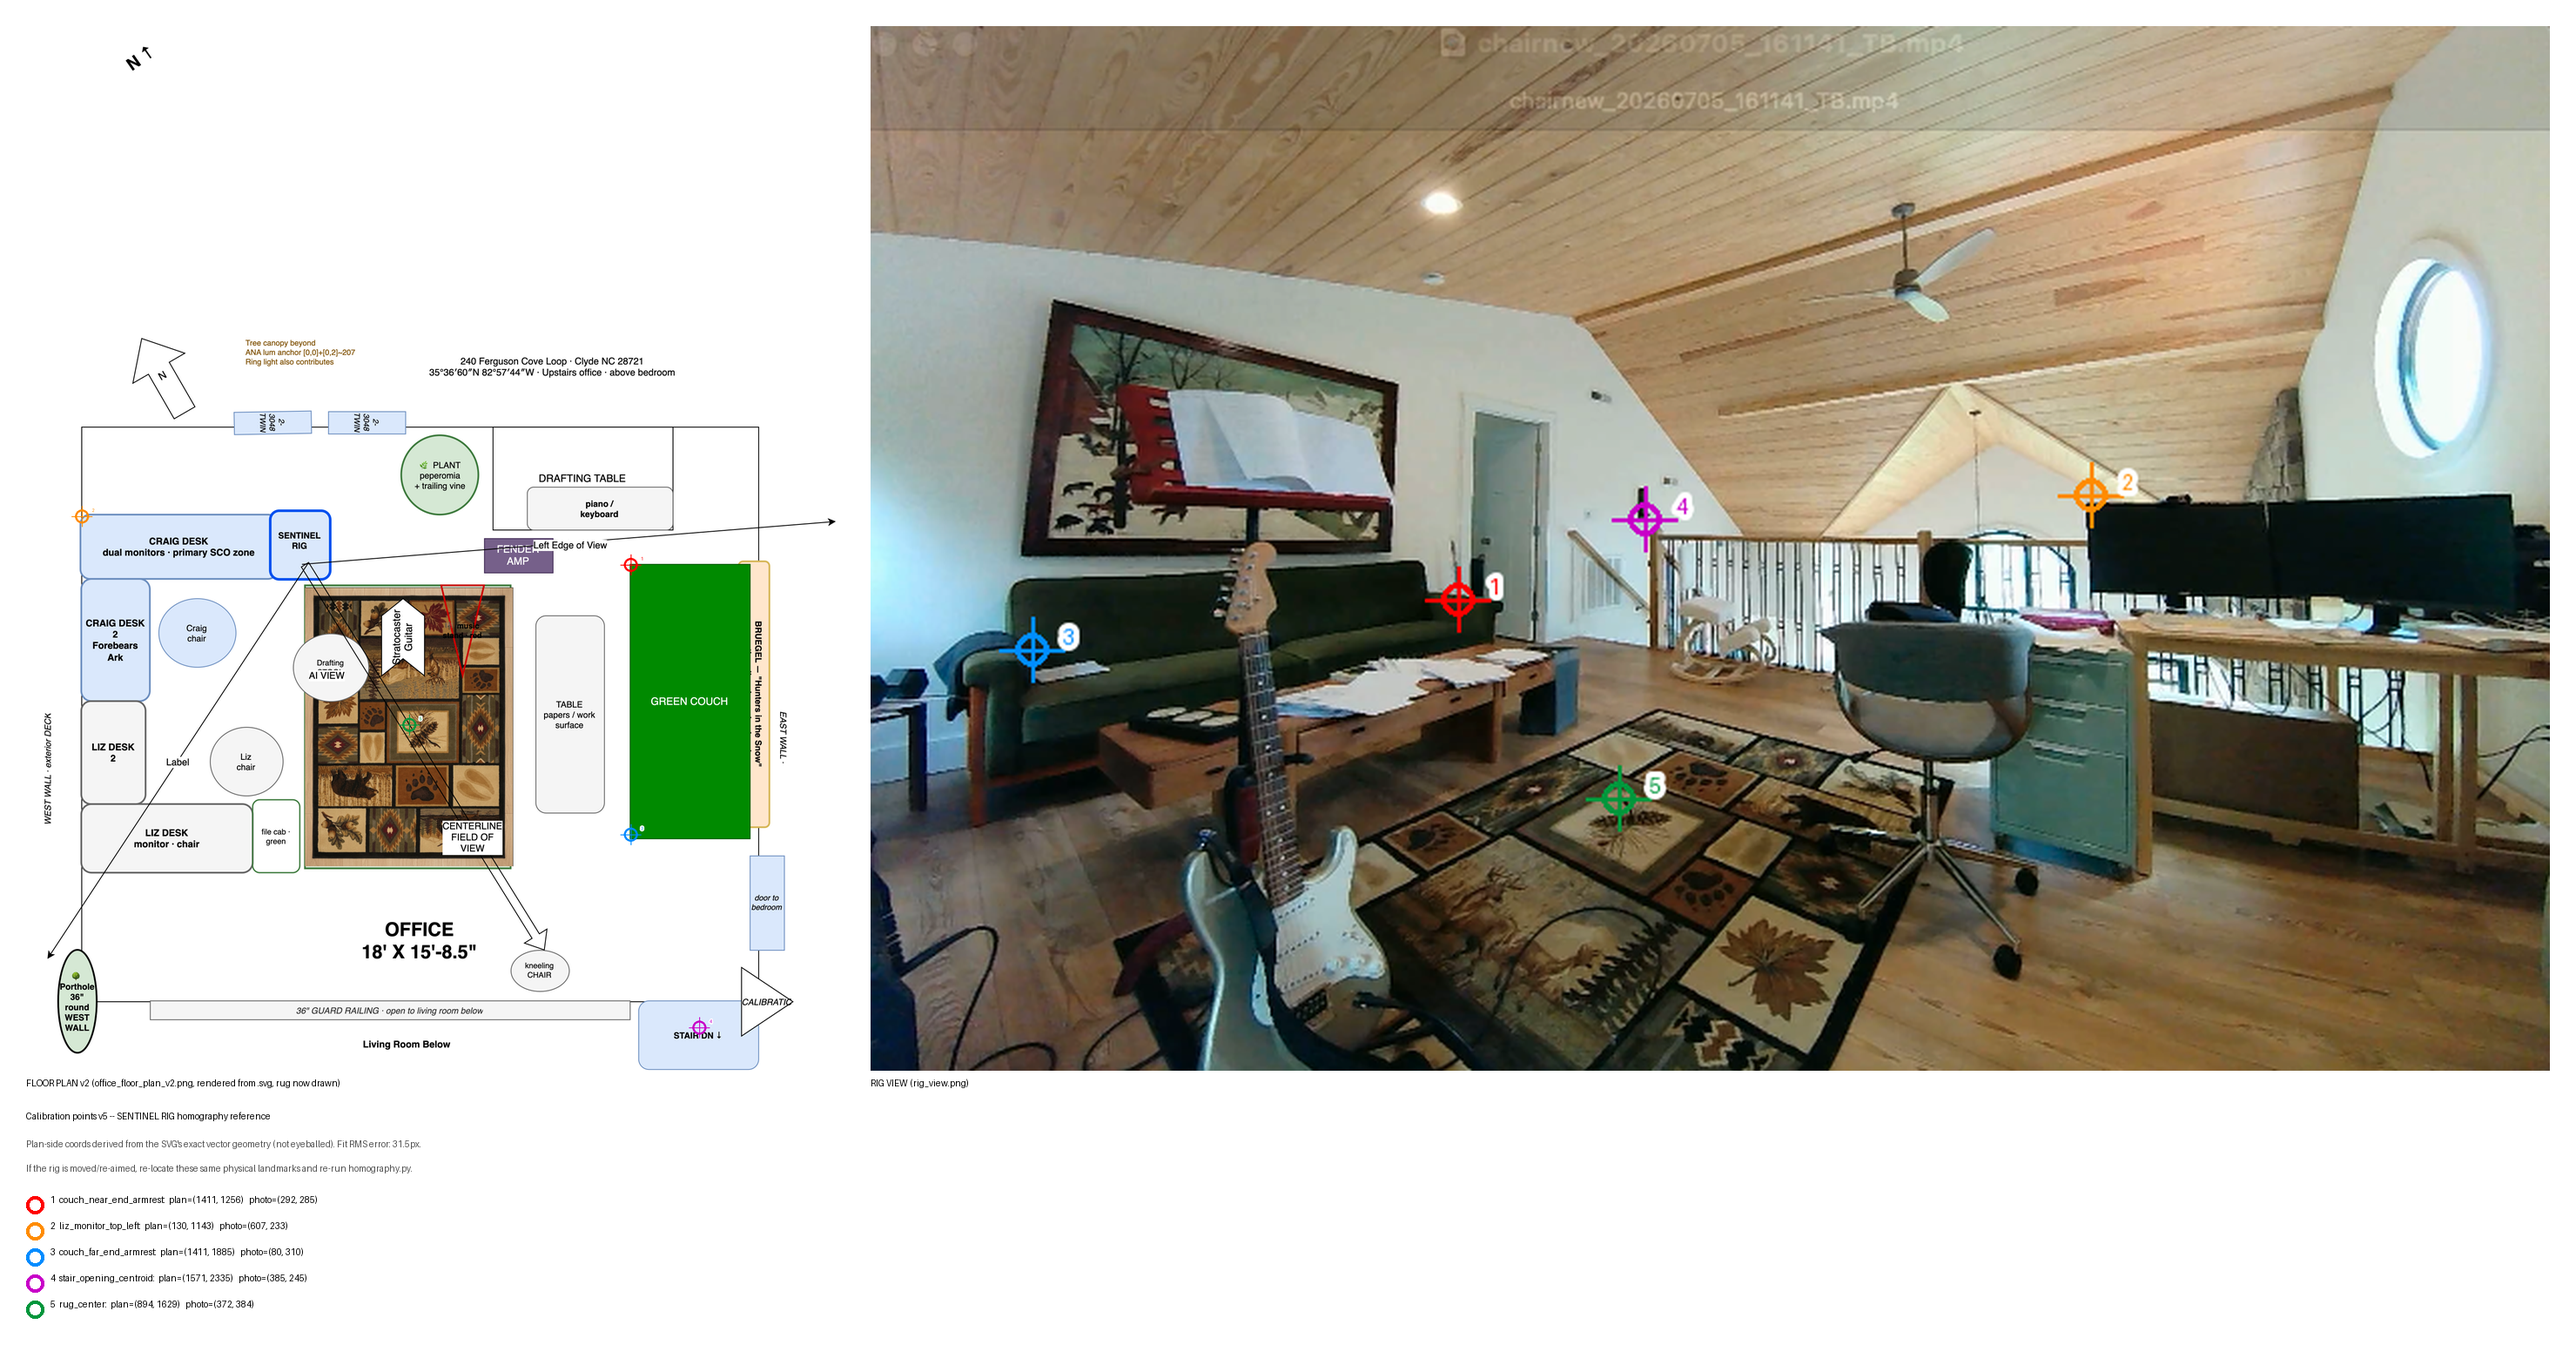
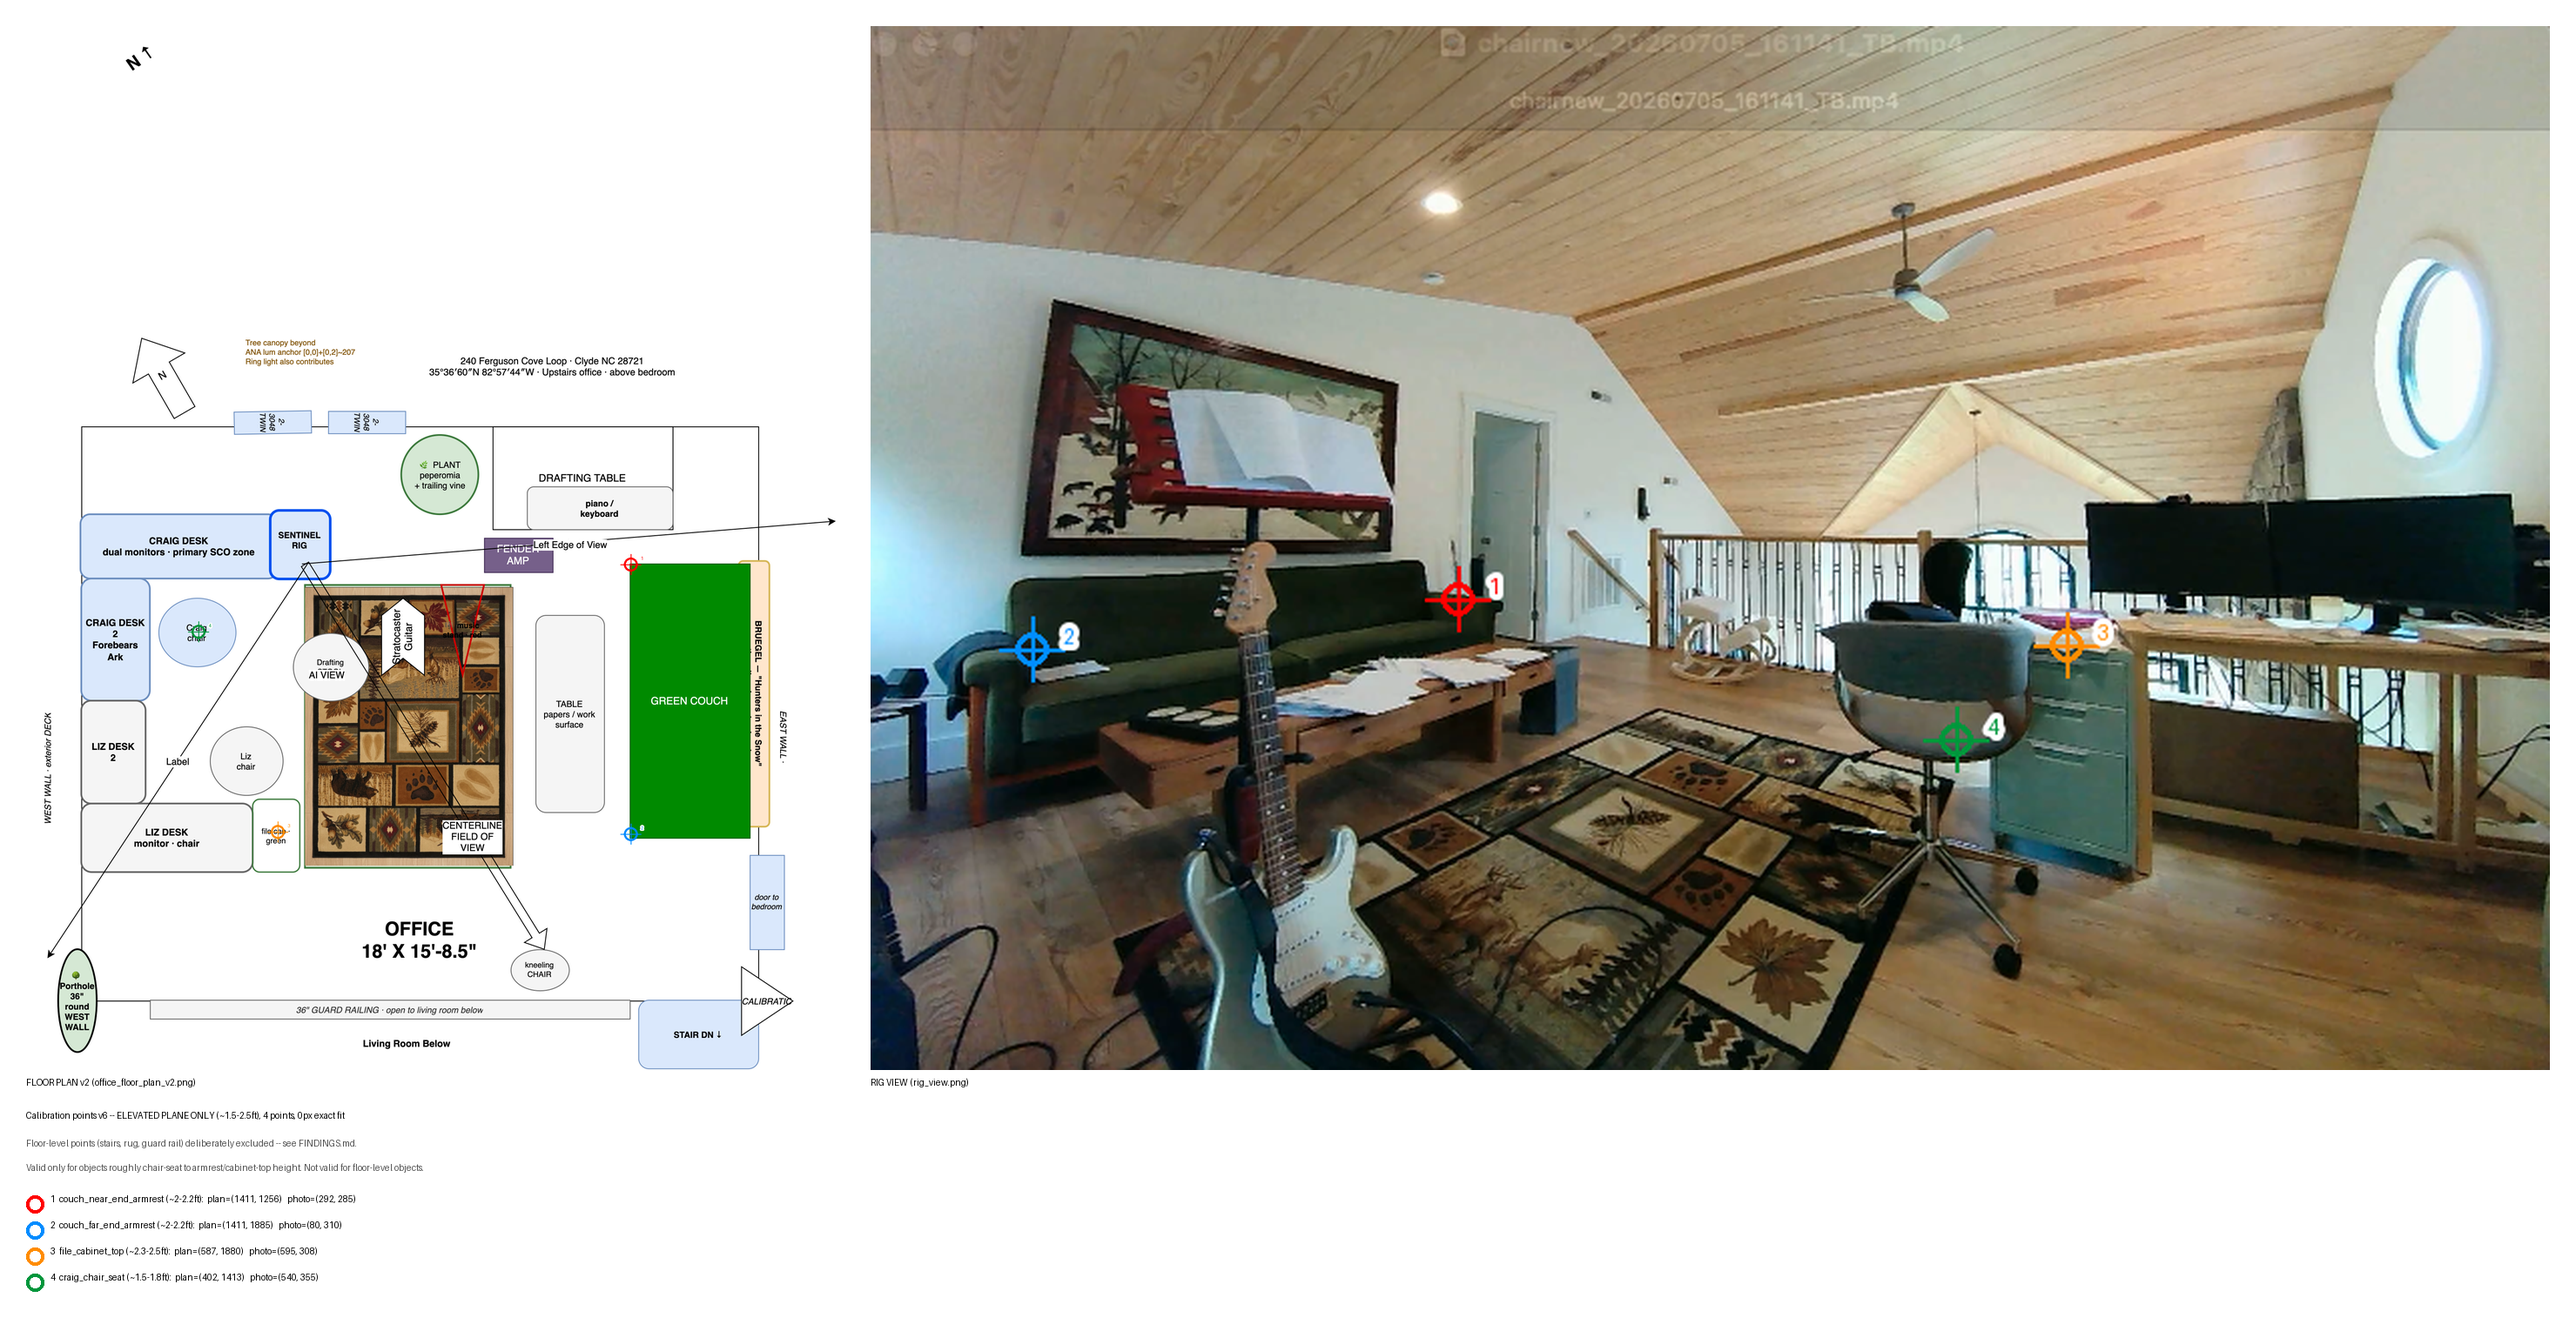
Rebuild homography using elevated-plane reference points only (v6)
Dropped floor-level points (stairwell, rug, guard rail) and the too-high
monitor-top point, keeping only 4 correspondences roughly 1.5-2.5ft above
the floor: couch armrest (both ends), file cabinet top, chair seat.

v6 achieves 0px RMS on its own 4 reference points (expected for a
minimal 4-point fit). Projecting the dropped floor-level points through
this H confirms they don't belong: 4 of 7 test points (kneeling chair,
rug center, both guard rail ends) land completely off-canvas, the rest
are unverified at best. This confirms floor-level and elevated surfaces
need separate homographies, not one shared fit.

A 5th same-band point (coffee table surface, ~1.3ft) was tried as a
consistency check and cost 32px of residual on its own, indicating the
valid height band is narrower than "roughly elevated" -- tightest
results come from points within about 1.5-2.5ft specifically, not the
broader furniture-top range.

Documented in FINDINGS.md as v6, with the previous v3-v5 mixed-height
history kept for context.

diff --git a/calibration/homography.py b/calibration/homography.py
@@ -4,48 +4,61 @@ import numpy as np
 # office_floor_plan_v2.png (plan, rendered from office_floor_plan_v2.svg
 # at 1910x2436) and rig_view.png (photo).
 # Format: name -> (plan_xy, photo_xy)
+# v6: ELEVATED-PLANE calibration. All 4 points sit roughly chair-seat to
+# armrest/cabinet-top height (~1.5-2.5ft above the floor) -- floor-level
+# points (stairwell, rug, guard rail) and the too-high monitor-top point
+# were deliberately dropped. See FINDINGS.md "v6" section for why, and
+# for the valid height band this homography should be trusted within.
+#
+# A 5th candidate point (craig_desk_surface, desk box center) was tried
+# and dropped: it produced a ~719px reprojection outlier while the other
+# 4 points held to <25px. Cause: the CRAIG DESK plan box is wide (230
+# units, spans both monitors) and the floor plan is a schematic/cognitive
+# map, not a precisely-scaled drawing (its own width:height ratios don't
+# match the couch's real 11ft:2.8ft ratio) -- so the box's geometric
+# center doesn't reliably correspond to a specific real-world point the
+# way a small, well-defined object's does.
 correspondences = {
-    "couch_near_end_armrest":  ((1411, 1256), (292, 285)),
-    "liz_monitor_top_left":    ((130, 1143), (607, 233)),
-    "couch_far_end_armrest":   ((1411, 1885), (80, 310)),
-    "stair_opening_centroid":  ((1571, 2335), (385, 245)),
-    "rug_center":              ((894, 1629), (372, 384)),
+    "couch_near_end_armrest": ((1411, 1256), (292, 285)),   # ~2-2.2ft (armrest)
+    "couch_far_end_armrest":  ((1411, 1885), (80, 310)),    # ~2-2.2ft (armrest)
+    "file_cabinet_top":       ((587, 1880), (595, 308)),    # ~2.3-2.5ft (cabinet top)
+    "craig_chair_seat":       ((402, 1413), (540, 355)),    # ~1.5-1.8ft (chair seat)
 }
+# A 5th point (coffee table surface, ~1.3-1.5ft) was tested for
+# consistency and DROPPED: it pushed the RMS residual from 0px (4-pt
+# exact fit) to ~32px, with couch_far_end_armrest alone jumping to 56px
+# error. Even within this restricted "elevated" band, height still
+# matters -- 1.3ft (table) vs 2.0-2.5ft (armrest/cabinet) is enough
+# spread to measurably strain the single-plane assumption. Kept to 4
+# points, all closer to the intended 1.5-2.5ft band, for a clean fit.
+# See FINDINGS.md "v6" section.
 
 # Plan-side coordinates were derived from office_floor_plan_v2.svg's
 # embedded drawio model (exact vector shape geometry), converted to pixel
 # space via a least-squares affine fit (scale ~2.0, matches the SVG being
 # rendered at 2x its 955x1218 viewBox) calibrated against 3 independent
 # reference boxes (craig desk, sentinel rig, green couch) -- all 3 matched
-# their known width/height aspect ratios to within ~1%. See
-# rsvg_verify.png-style checks in the session for validation; the
-# transform is:
+# their known width/height aspect ratios to within ~1%. The transform is:
 #   pixel_x = 1.9994 * model_x + 2071.24
 #   pixel_y = 1.9648 * model_y + 804.30
 #
-# liz_monitor_top_left uses the CRAIG DESK box's top-left corner as a
-# proxy -- the plan draws the desk footprint, not individual monitors.
-#
-# rug_center uses the *overall rug bounding box center* on the plan side
-# (now that v2 draws the actual rug artwork/outline, not just a text
-# label) and the *pinecone panel* on the photo side (verified by marked
-# crop) -- these are both "roughly central on the rug" but not the exact
-# same sub-feature, since the rug's true bottom edge is cut off by the
-# photo's frame and its exact pattern position could not be reliably
-# resolved in the small plan graphic (occluded by FOV-cone overlay lines).
+# Since the floor plan is a 2D top-down footprint, plan-side (x,y) is the
+# same regardless of which height on an object you pick -- craig_desk_surface
+# and file_cabinet_top both use their object's plan-footprint center;
+# what changed vs. earlier versions is the PHOTO-side pixel, deliberately
+# picked at ~1.5-2.5ft height on each object instead of floor level or
+# (for the old monitor point) ~4ft monitor-top height.
 
 # out-of-plane / cross-check points, NOT used in the fit -- for
-# sanity-checking only. porthole is a wall-height feature (expected to
-# reproject poorly, confirms plane-only validity); the rest are other
-# floor-level plan landmarks (also derived from the SVG model via the
-# transform above) used to check whether the fit generalizes beyond the
-# 5 points actually used.
+# sanity-checking only. porthole is a wall-height feature; the rest are
+# floor-level plan landmarks. Both groups are expected to reproject
+# poorly under this elevated-plane calibration -- see FINDINGS.md.
 validation_points = {
     "porthole_center":   ((123, 2258), None),
-    "craig_chair":       ((402, 1413), None),
     "liz_chair":         ((517, 1708), None),
-    "file_cabinet":      ((587, 1880), None),
     "kneeling_chair":    ((1202, 2187), None),
+    "stair_opening":     ((1571, 2335), None),
+    "rug_center":        ((894, 1629), None),
     "guard_rail_left":   ((292, 2278), None),
     "guard_rail_right":  ((1411, 2278), None),
 }

diff --git a/calibration/FINDINGS.md b/calibration/FINDINGS.md
@@ -14,28 +14,51 @@ rendered from `rig/office_floor_plan_v2.svg`) and `rig/rig_view.png`
   calibration points marked, for re-anchoring after the rig moves.
 - `degeneracy_check.png` -- diagnostic image, see "History" below.
 
-## Correspondences used (v5, current -- 5 points, precise plan coords)
+## Correspondences used (v6, current -- 4 points, elevated plane only)
 
-| # | Landmark | Floor plan (px) | Photo (px) |
+| # | Landmark | Floor plan (px) | Photo (px) | Approx. height |
+|---|---|---|---|---|
+| 1 | Couch near-end armrest, front-top corner | (1411, 1256) | (292, 285) | ~2-2.2ft |
+| 2 | Couch far-end armrest, front-top corner | (1411, 1885) | (80, 310) | ~2-2.2ft |
+| 3 | File cabinet top surface | (587, 1880) | (595, 308) | ~2.3-2.5ft |
+| 4 | Craig chair, seat height | (402, 1413) | (540, 355) | ~1.5-1.8ft |
+
+**This homography is only valid for points roughly 1.5-2.5ft above the
+floor** (chair-seat to armrest/cabinet-top height). It deliberately
+excludes: floor-level points (stairwell, rug, guard rail -- see v3-v5
+history below) and the old monitor-top point (~4ft, too high). Floor-
+level objects mapped through this H will carry substantially higher
+position error -- confirmed below, not just theoretical.
+
+A 5th same-band point (coffee table surface, ~1.3-1.5ft) was tried as a
+consistency check and dropped: it pushed the RMS residual from 0px
+(4-point exact fit) to ~32px, with `couch_far_end_armrest` alone jumping
+to 56px error. Even a modest spread within "elevated" (1.3ft vs
+2.0-2.5ft) is enough to measurably strain the single-plane assumption --
+this homography is tightest for points near 1.5-2.5ft specifically, not
+"elevated" in general.
+
+### Out-of-sample check: floor-level degradation, confirmed
+
+Projecting floor-level plan landmarks (not used in the fit) through this
+elevated-plane H:
+
+| Landmark | Plan (px) | Predicted photo (px) | Verdict |
 |---|---|---|---|
-| 1 | Couch near-end armrest, front-top corner | (1411, 1256) | (292, 285) |
-| 2 | Left monitor top-left corner (proxy: CRAIG DESK box top-left, plan draws the desk footprint not individual monitors) | (130, 1143) | (607, 233) |
-| 3 | Couch far-end armrest, front-top corner | (1411, 1885) | (80, 310) |
-| 4 | Stairwell opening centroid | (1571, 2335) | (385, 245) |
-| 5 | Rug center (plan: overall rug bbox center; photo: pinecone panel -- see note) | (894, 1629) | (372, 384) |
+| kneeling_chair | (1202, 2187) | (18244, -997) | wildly off-frame |
+| rug_center | (894, 1629) | (-1444, 143) | off-frame |
+| guard_rail_right | (1411, 2278) | (-666, 398) | off-frame |
+| stair_opening | (1571, 2335) | (-218, 363) | off-frame |
+| guard_rail_left | (292, 2278) | (495, 296) | plausible-looking but unverified |
+| liz_chair | (517, 1708) | (578, 322) | plausible-looking but unverified |
+| porthole_center | (123, 2258) | (473, 298) | wall-height, not floor -- also off-plane |
 
-Both couch points intentionally reference the *armrest* (not the floor
-corner) since the floor corners are occluded by a coffee table/guitar in
-the reference photo. This means the fit is anchored slightly above the
-true floor plane (~2ft), not on it.
+Four of seven land off-frame entirely; the rest are unverified guesses
+at best. **Do not use this H for floor-level objects** (rug position,
+chair/cabinet footprints, anything on the ground) -- re-derive a
+separate floor-plane homography (see v3-v5 below) for those instead.
 
-Point 5's plan and photo sides are not quite the same sub-feature: the
-plan side uses the rug's overall bounding-box center (now that v2 draws
-the actual rug artwork), while the photo side uses the pinecone panel
-specifically (verified by a marked crop) since the rug's true bottom
-edge is cut off by the photo's frame, so no true "center" is visible
-there. Both are "roughly central on the rug," which is the best
-available match.
+## Previous versions (superseded), kept for context
 
 ## How the v2 plan pixel coordinates were derived
 
@@ -97,19 +120,25 @@ points 1-2 (couch armrest, monitor) sit ~2.5-4ft above the floor; points
 points on a single plane -- mixing heights biases the fit toward an
 ill-defined compromise plane that doesn't match any of them well.
 
-**Practical takeaway:** if better accuracy is needed, re-pick
-correspondence points that are all genuinely at the same height (e.g.
-all floor-level, using visible floor-plane corners only -- the SVG
-model makes plan-side floor corners for any shape trivial to get
-precisely), rather than mixing furniture-top and floor-level landmarks.
+**Practical takeaway that led to v6:** height-mixing was the real
+problem, confirmed by restricting to a single elevated band (see v6
+above) -- conditioning stayed fine and the out-of-sample floor-level
+check now fails predictably/explicitly rather than silently, which is
+the honest outcome for a plane-only tool used outside its valid range.
 
 ## Re-calibrating after the rig moves
 
 1. Take a new photo from the rig.
-2. Locate the same 5 physical landmarks in the new photo (ideally
-   staying at one consistent height, per the note above).
+2. Locate the same 4 physical landmarks in the new photo, staying in the
+   ~1.5-2.5ft height band (armrest, cabinet-top, chair-seat) -- do not
+   mix in floor-level or head-height points (see v6 above).
 3. Update the `*_photo` coordinates in `homography.py`. If the floor
    plan itself changes, re-derive plan-side coordinates from the
    `.svg`'s embedded model (see "How the v2 plan pixel coordinates were
    derived") rather than eyeballing the raster PNG.
 4. Re-run `python3 homography.py` to regenerate the `.npy` matrices.
+5. If floor-level mapping is also needed, calibrate a **separate**
+   homography using only floor-level points (v3-v5 above are a starting
+   point, though none of those achieved a good residual either --
+   floor-level correspondences may need points spread further apart to
+   avoid the collinearity issue from v3).
